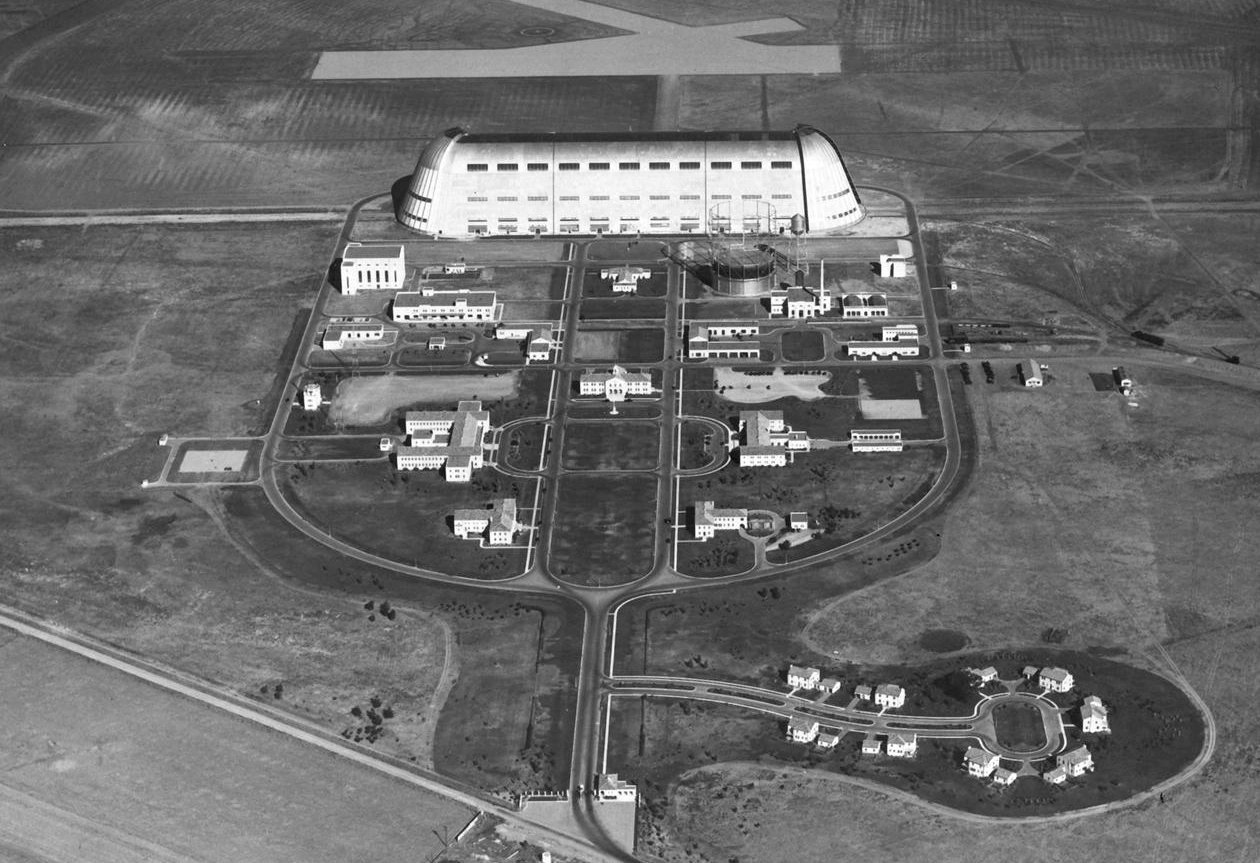
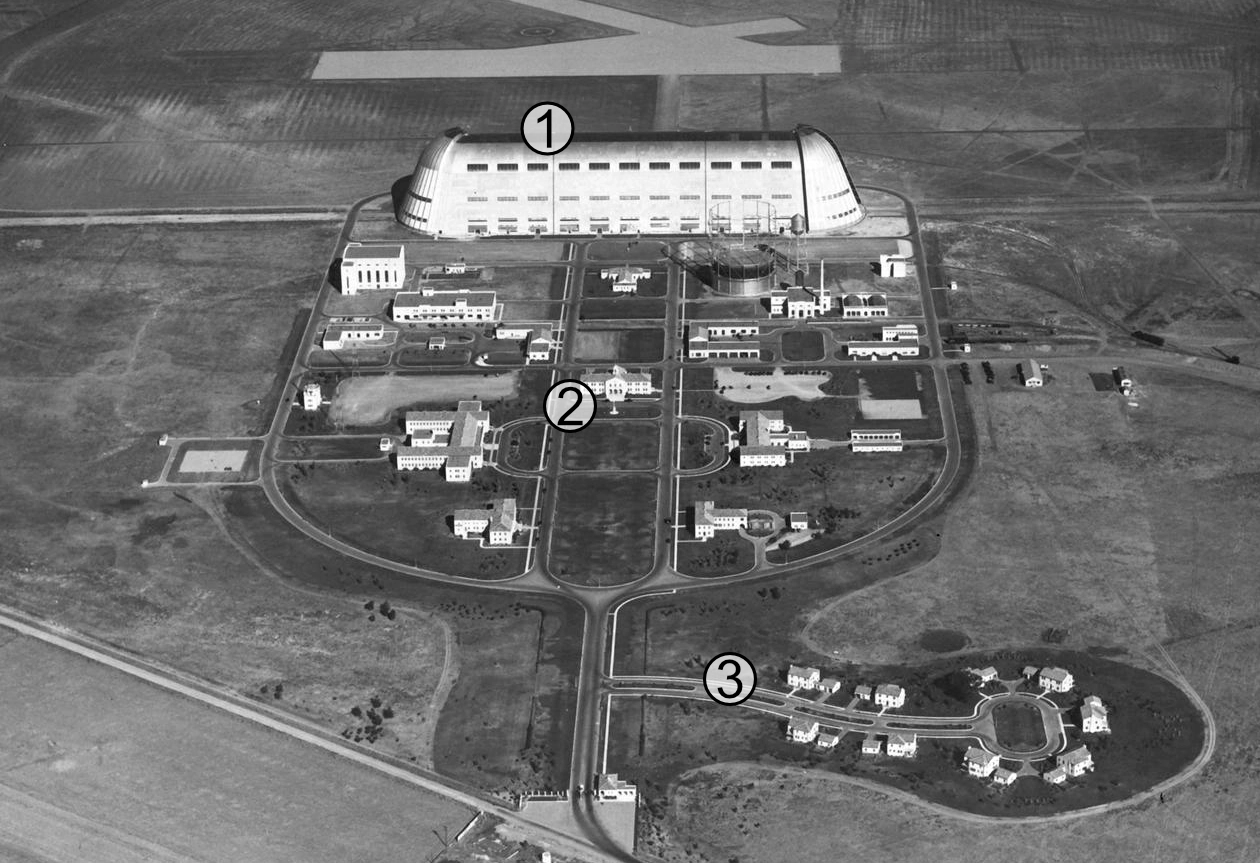
Feature complete - Added detailed info about base images and updated images with added numbering

Changed region(s): [[0.5571, 0.7532, 0.619, 0.8134], [0.4333, 0.4218, 0.4952, 0.5122], [0.4024, 0.1205, 0.4643, 0.1808]]

diff --git a/index.html b/index.html
@@ -144,9 +144,22 @@
         <section id="panel-three">
             <h2 class="hidden">Current Construction Projects</h2>
             <div class="base-info" id="athena-base-image" tabindex="0">
+                <div class="tap-indicator"><i class="fa-regular fa-hand-pointer"></i> </div>
+
                 <div class="info-panel">
-                    <p>The main habitation module consists of living quarters, sanitation facilities, social spaces and
-                        exercise areas.</p>
+                    <ol class="overlay-details-list">
+                        <li>The main habitation module consists of living quarters, sanitation facilities, social spaces
+                            and
+                            exercise areas.</li>
+                        <li>Mission control is housed in Coopers Perch, the central administration building that will
+                            coordinate all launches from the moons surface.</li>
+                        <li>"The Suburbs", as our engineers have named it, is the outer collection of hab units that
+                            will, in future, house the families of our
+                            committed "Frontier" team. This team will be the first to commit to living full time on the
+                            moon for the foreseeable future.
+                        </li>
+                    </ol>
+
                 </div>
                 <button id="optional-arrow" class="scroll-arrow-button" aria-label="Scroll to next panel"><img
                         id="arrow-five" class="scroll-arrow" data-next-panel="athena-crucible-text"
@@ -175,9 +188,20 @@
                 </article>
             </div>
             <div class="base-info" id="athena-crucible-image" tabindex="0">
+                <div class="tap-indicator"><i class="fa-regular fa-hand-pointer"></i> </div>
+
                 <div class="info-panel">
-                    <p>The Athena Crucible is our future mining facility that will help to sustain industry on the moon.
-                        Plans include resource export, sending rare minerals back to Earth.</p>
+                    <ol class="overlay-details-list">
+                        <li>The Athena Crucible is our future mining facility that will help to sustain industry on the
+                            moon.
+                            Plans include resource export, sending rare minerals back to Earth.</li>
+                        <li>Initial construction has been completed on the administration infrastructure surrounding the
+                            facility. These buildings will house geologists and astro-mineralists to help discover
+                            what's hidden under the moons surface</li>
+                        <li> The transport loop will allow easy transfer of materials between Athena Base and the
+                            Crucible, effectively creating a roundabout for haulers to easily navigate.</li>
+                    </ol>
+
                 </div>
             </div>
             <button class="scroll-arrow-button" aria-label="Scroll to next panel"><img id="arrow-four"

diff --git a/assets/css/index.css b/assets/css/index.css
@@ -545,7 +545,7 @@ header {
 #panel-three .base-info {
     -ms-flex-preferred-size: 100%;
     flex-basis: 100%;
-    height: 50svh;
+    min-height: 50svh;
     font-weight: bold;
     text-align: center;
     overflow: hidden;
@@ -570,6 +570,15 @@ header {
 
 #panel-three article {
     padding: 20px;
+}
+
+.tap-indicator {
+    position: absolute;
+    left: 10px;
+    top: 10px;
+    animation-name: slideArrow;
+    animation-iteration-count: infinite;
+    animation-duration: 3s;
 }
 
 #athena-base-text {
@@ -625,8 +634,11 @@ header {
     font-size: .8rem;
 }
 
-.info-panel>p {
+.info-panel li {
     color: black;
+    margin: 10px;
+    font-weight: 400;
+    font-size: .6rem;
 }
 
 #athena-base-image .info-panel {
@@ -642,6 +654,10 @@ header {
 #athena-crucible-image .info-panel {
     left: -50%;
     text-align: right;
+}
+
+#athena-crucible-image li {
+    text-align: left;
 }
 
 #athena-crucible-image:focus-visible .info-panel,
@@ -819,4 +835,12 @@ header {
     #panel-four {
         background-position-y: -100px;
     }
+
+    .info-panel li {
+        color: black;
+        margin: 25px 10px;
+        font-weight: 400;
+        font-size: .8rem;
+    }
+
 }
